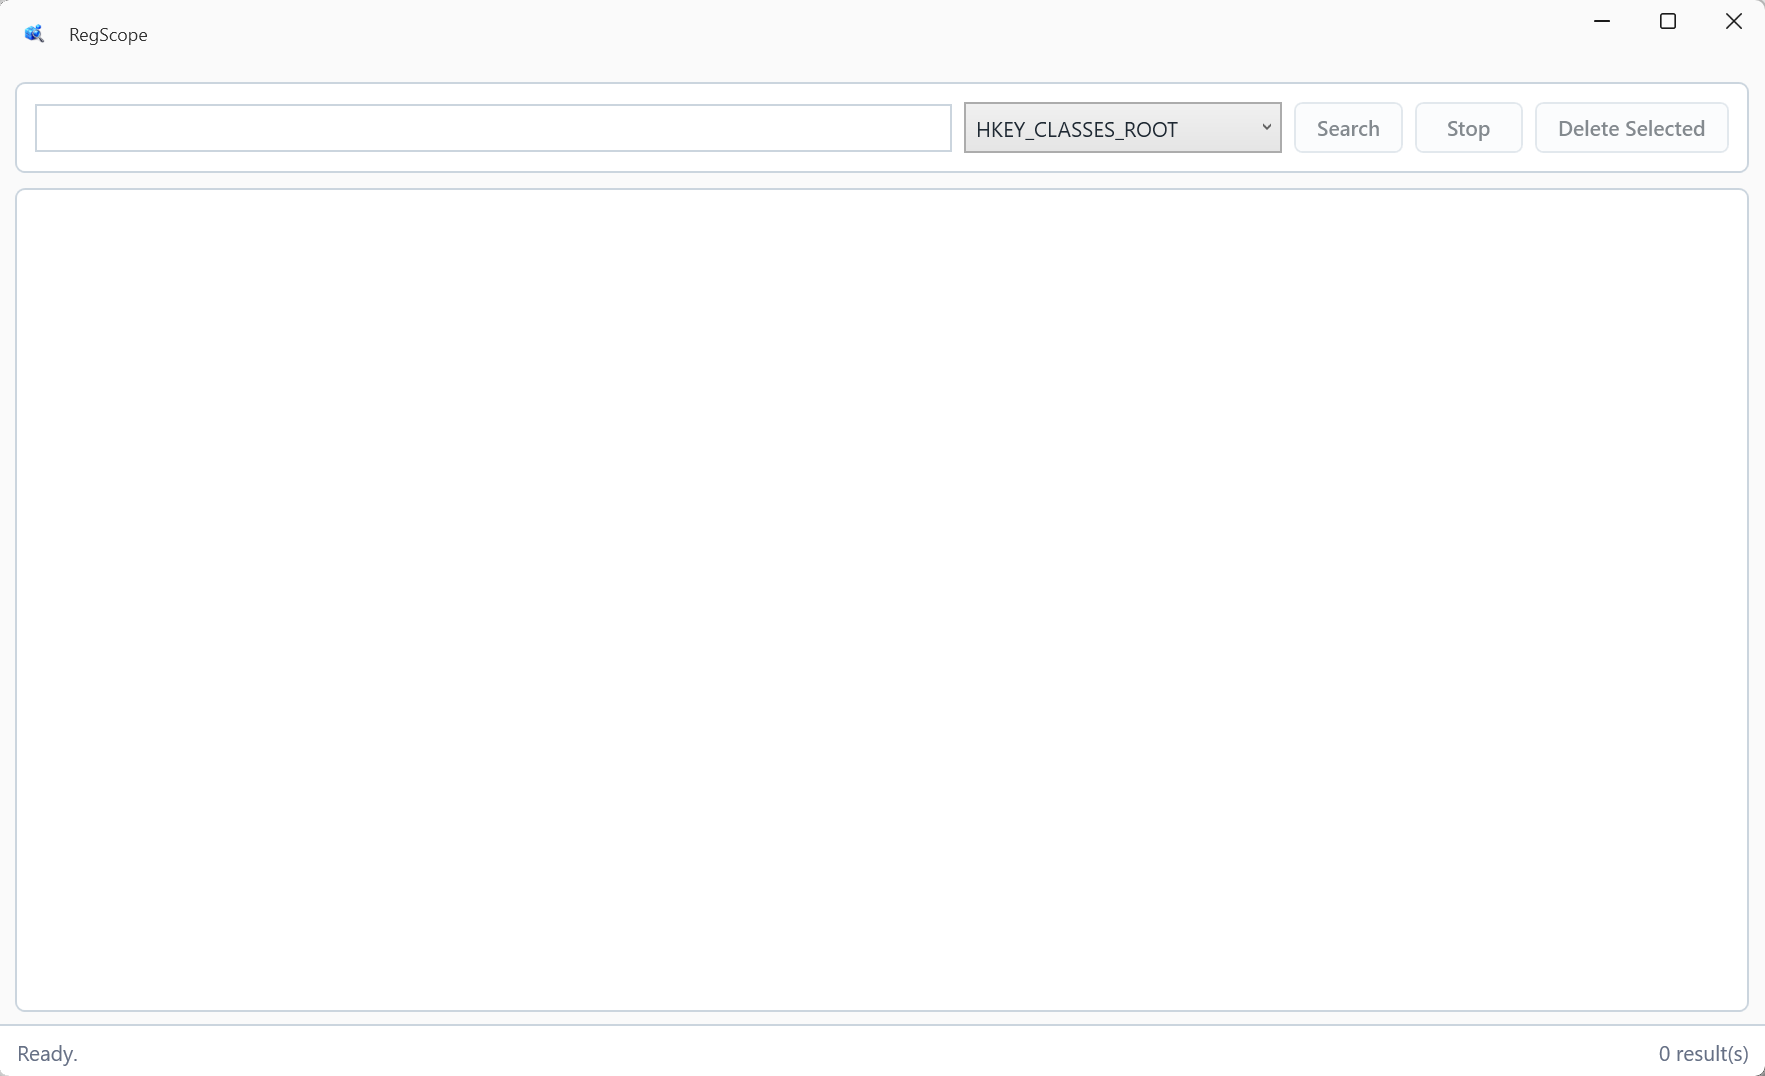
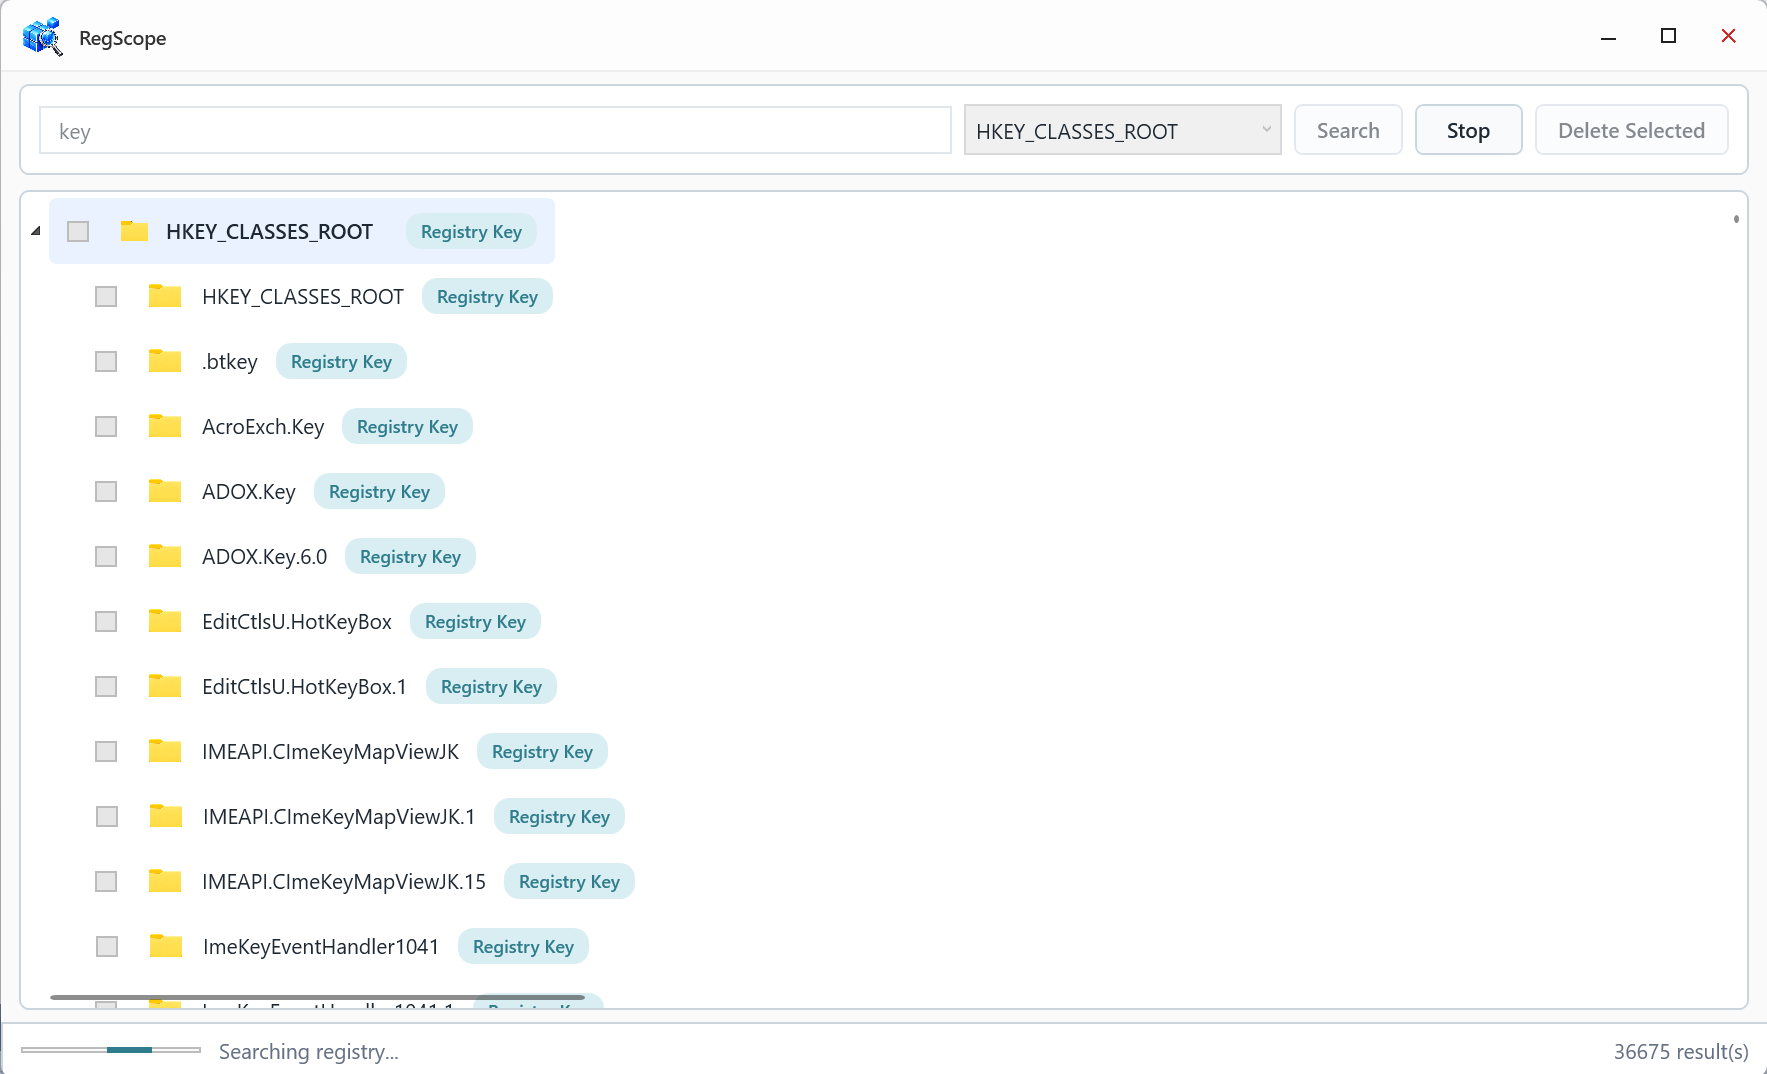
updated information for readme

Changed region(s): [[0.0, 0.0, 0.9972, 1.0], [0.9348, 0.9525, 1.0, 1.0]]

diff --git a/RegScope/Views/HomePage.xaml b/RegScope/Views/HomePage.xaml
@@ -74,7 +74,7 @@
                 <Grid.ColumnDefinitions>
                     <ColumnDefinition Width="38" />
                     <ColumnDefinition Width="*" />
-                    <ColumnDefinition Width="150" />
+                    <ColumnDefinition Width="Auto" />
                     <ColumnDefinition Width="*" />
                 </Grid.ColumnDefinitions>
 

diff --git a/README.md b/README.md
@@ -2,7 +2,7 @@
 
 Windows Registry Search and Cleanup Tool
 
-![RegScope Main Window](RegScope/Docs/images/main-window.png) 
+![RegScope Main Window](RegScope/Docs/Images/app.png)
 
 RegScope is a Windows desktop application for searching, reviewing, and safely removing Windows Registry keys and values across multiple registry hives.
 
@@ -16,8 +16,7 @@ Built with WPF on .NET 9 using the MVVM pattern and packaged with WiX Toolset.
 * Search within a specific registry hive or across all supported hives.
 * Scan both 64-bit and 32-bit registry views on 64-bit Windows.
 * Display grouped search results for easier navigation.
-* View hive, path, match type, value name, value kind, and value data.
-* Copy registry paths directly from search results.
+* Review matching keys and values with their registry paths, value types, and data.
 * Select and delete individual registry keys or values.
 * Bulk delete selected registry items.
 * Confirmation dialogs before deletion.
@@ -32,6 +31,7 @@ Built with WPF on .NET 9 using the MVVM pattern and packaged with WiX Toolset.
 * CommunityToolkit.Mvvm
 * Microsoft.Win32.Registry
 * Serilog
+* xUnit.net v3
 * WiX Toolset 6
 
 ## Requirements
@@ -40,12 +40,12 @@ Built with WPF on .NET 9 using the MVVM pattern and packaged with WiX Toolset.
 
 * Windows 10 / Windows 11
 * .NET 9 SDK
-* Visual Studio 2022
-* WiX Toolset SDK
+* Visual Studio 2022 (optional for command-line builds)
 
 ### Runtime
 
-* Windows operating system
+* Windows 10 / Windows 11
+* .NET 9 Desktop Runtime (x64 for the MSI installer)
 * Administrator privileges may be required to access protected registry locations
 
 ## Build
@@ -96,7 +96,7 @@ dotnet build RegScope.Installer\RegScope.Installer.wixproj -c Release -p:Platfor
 The generated MSI package will be available in:
 
 ```text
-RegScope.Installer\bin\x64\Release\
+RegScope.Installer\bin\Release\x64\
 ```
 
 If Visual Studio was already open after installer project changes, reload the solution before rebuilding.
@@ -119,7 +119,7 @@ When accessing or removing protected registry entries, run RegScope as Administr
 
 ## Logging
 
-Application logs are stored in:
+Application logs are stored in a `Logs` directory next to the application when that location is writable. Otherwise, they are stored in:
 
 ```text
 %LOCALAPPDATA%\RegScope\Logs
@@ -128,10 +128,11 @@ Application logs are stored in:
 ## Project Structure
 
 ```text
-RegScope/                    WPF application
-RegScope.Application/        Application contracts and application layer
-RegScope.Domain/             Domain models and shared constants
-RegScope.Infrastructure/     Registry search and delete services
+RegScope/                    WPF application and view models
+RegScope.Services/           Registry search and delete services
+RegScope.Presentation/       UI styles, resources, and controls
+RegScope.Logger/             Application logging
+RegScope.Tests/              Automated tests
 RegScope.Installer/          WiX MSI installer project
 ```
 
